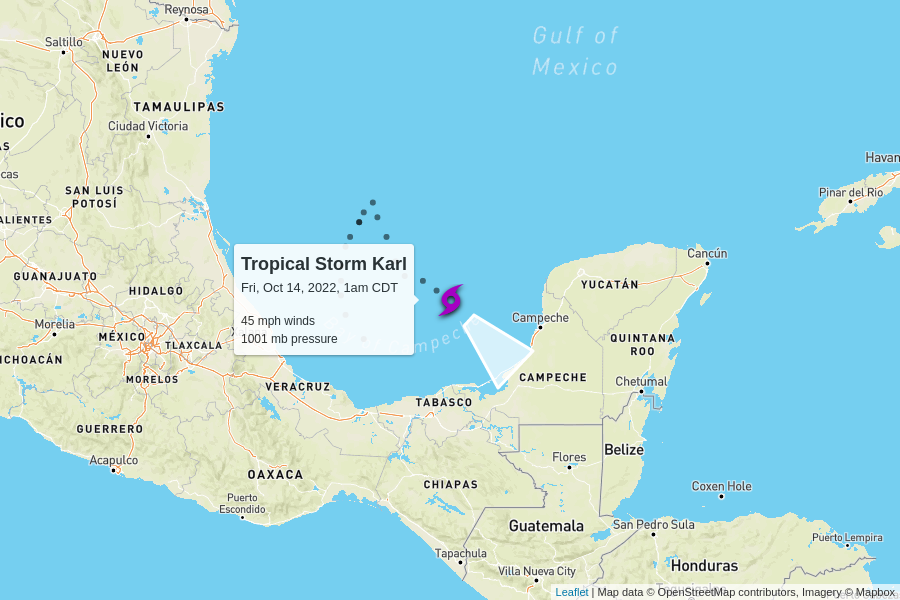
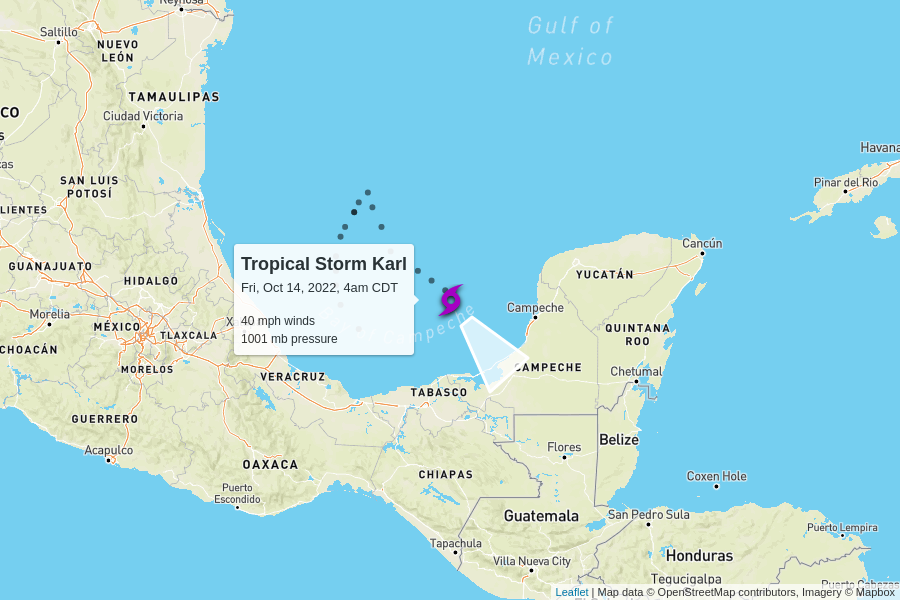
automatic update

diff --git a/docs/index.html b/docs/index.html
@@ -100,7 +100,7 @@
         <td colspan="6" class="storm category-0" >
           <h2>
             Tropical Storm Karl
-            <p class="updated">last updated <span data-time>2022-10-14T06:00:00.000Z</span></p>
+            <p class="updated">last updated <span data-time>2022-10-14T09:00:00.000Z</span></p>
           </h2>
         </td>
       </tr>
@@ -115,12 +115,12 @@
       </tr>
       <tr>
         <td class="spacer"></td>
-        <td>45 mph</td>
+        <td>40 mph</td>
         <td>1001 mb</td>
         <td>
-          7 mph to the southeast
+          6 mph to the southeast
           <br/>
-          <span style="display: inline-block; font-size: 1.5em; transform: rotate(135deg);">↑</span>
+          <span style="display: inline-block; font-size: 1.5em; transform: rotate(140deg);">↑</span>
         </td>
         <td><a href="https://raw.githubusercontent.com/mgwalker/atlantic-hurricanes/main/data/csv/AL142022.csv">AL142022.csv</a></td>
         <td><a href="https://www.nhc.noaa.gov/archive/2022/KARL.shtml?">NHC advisories</a></td>
